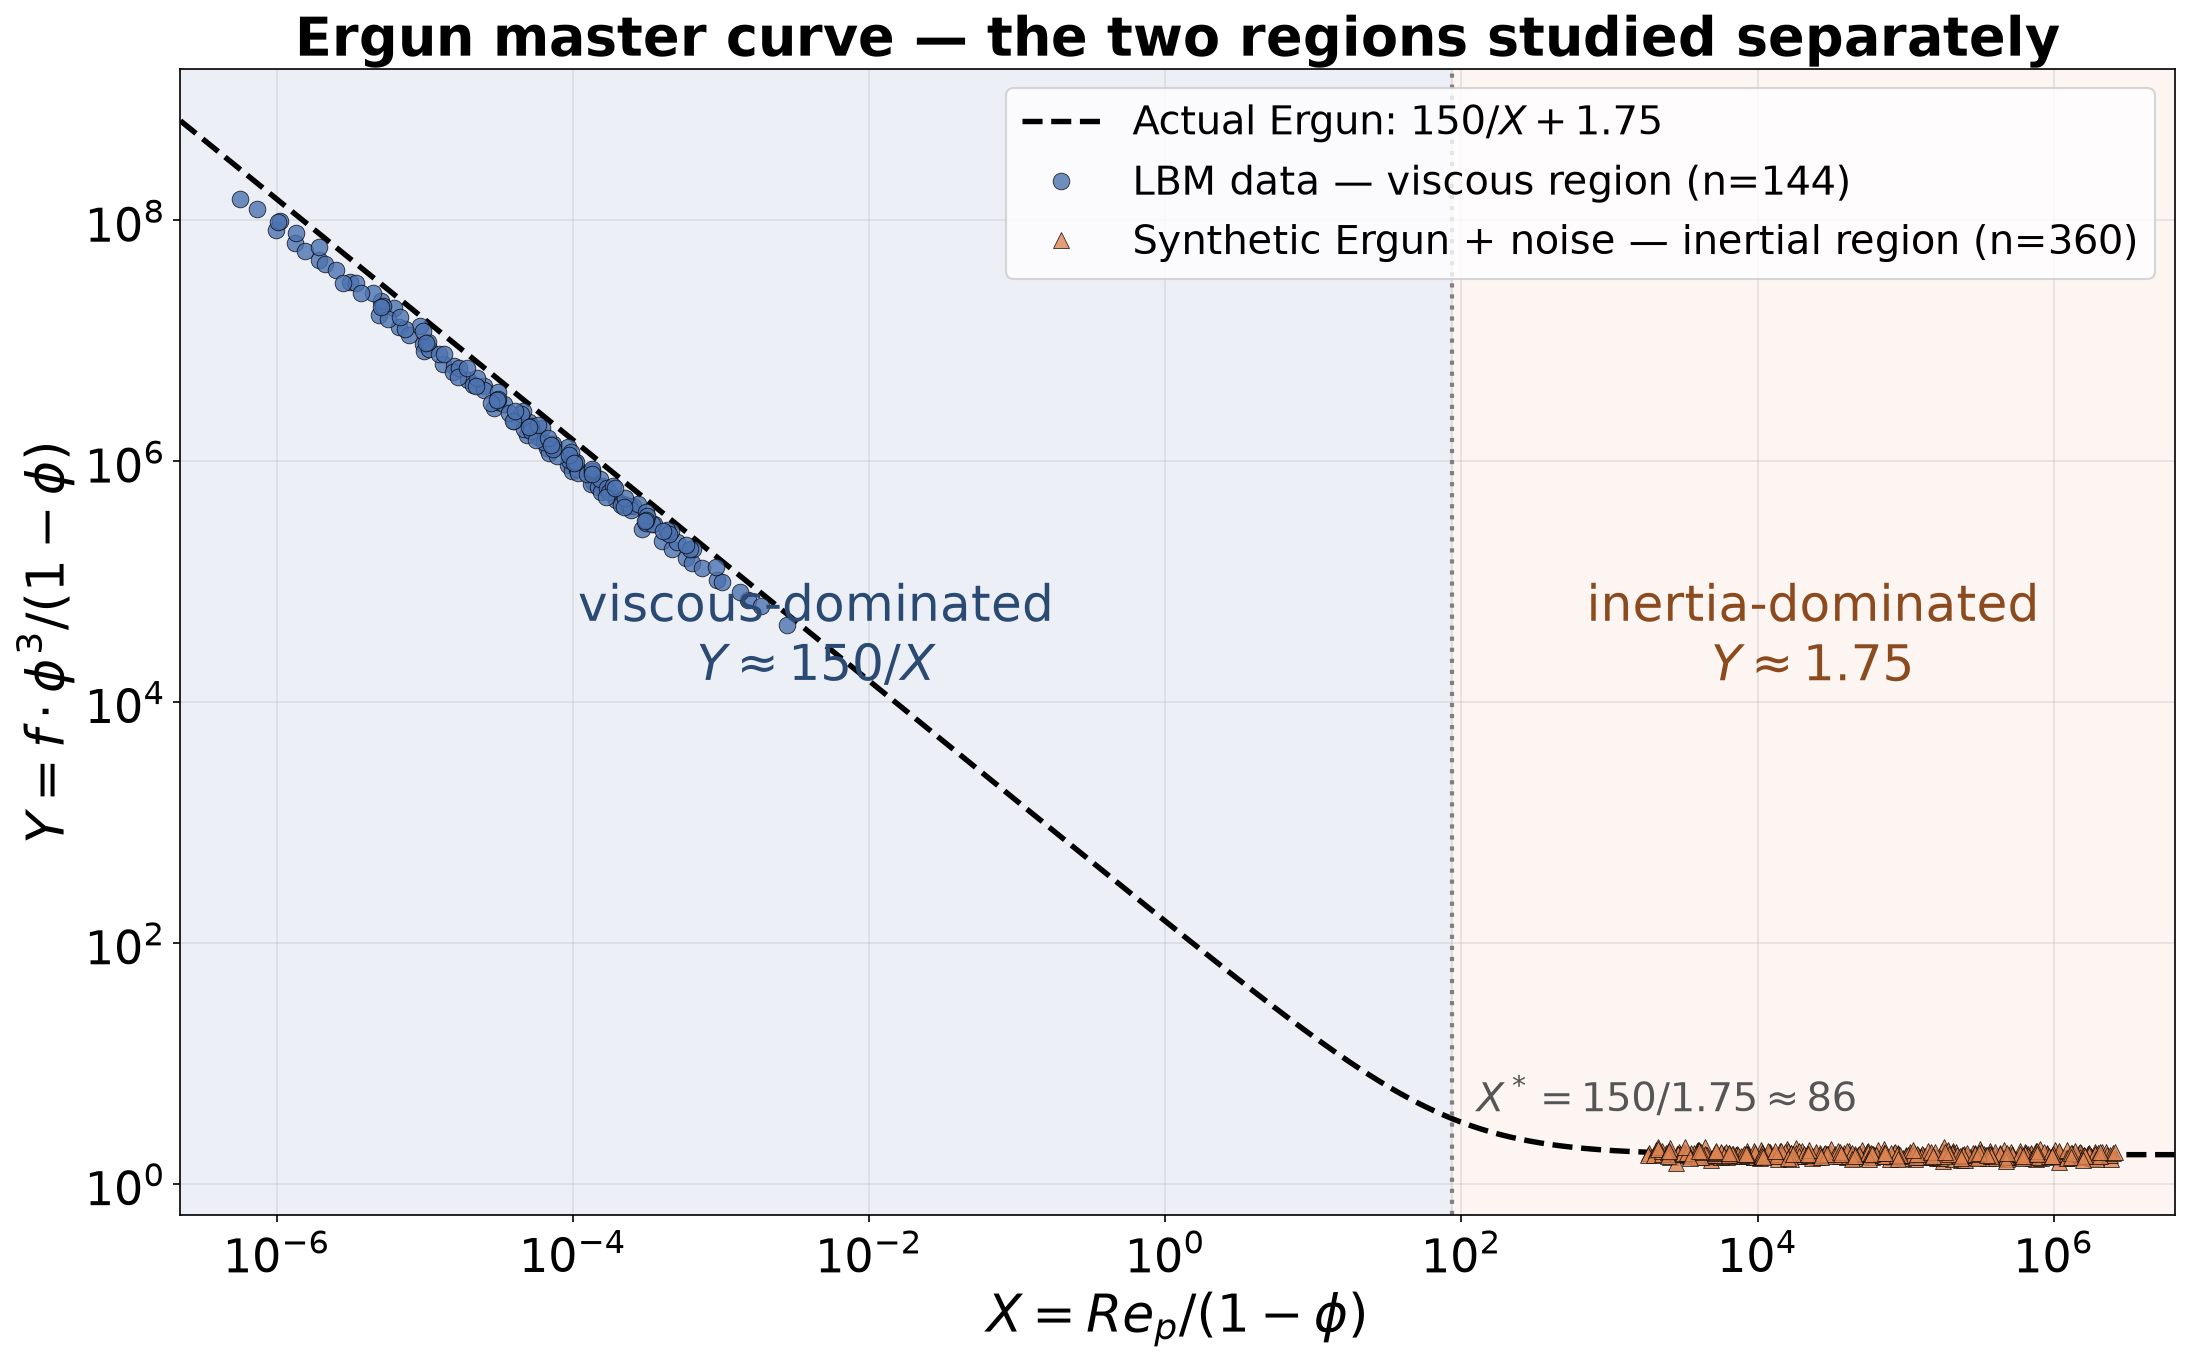
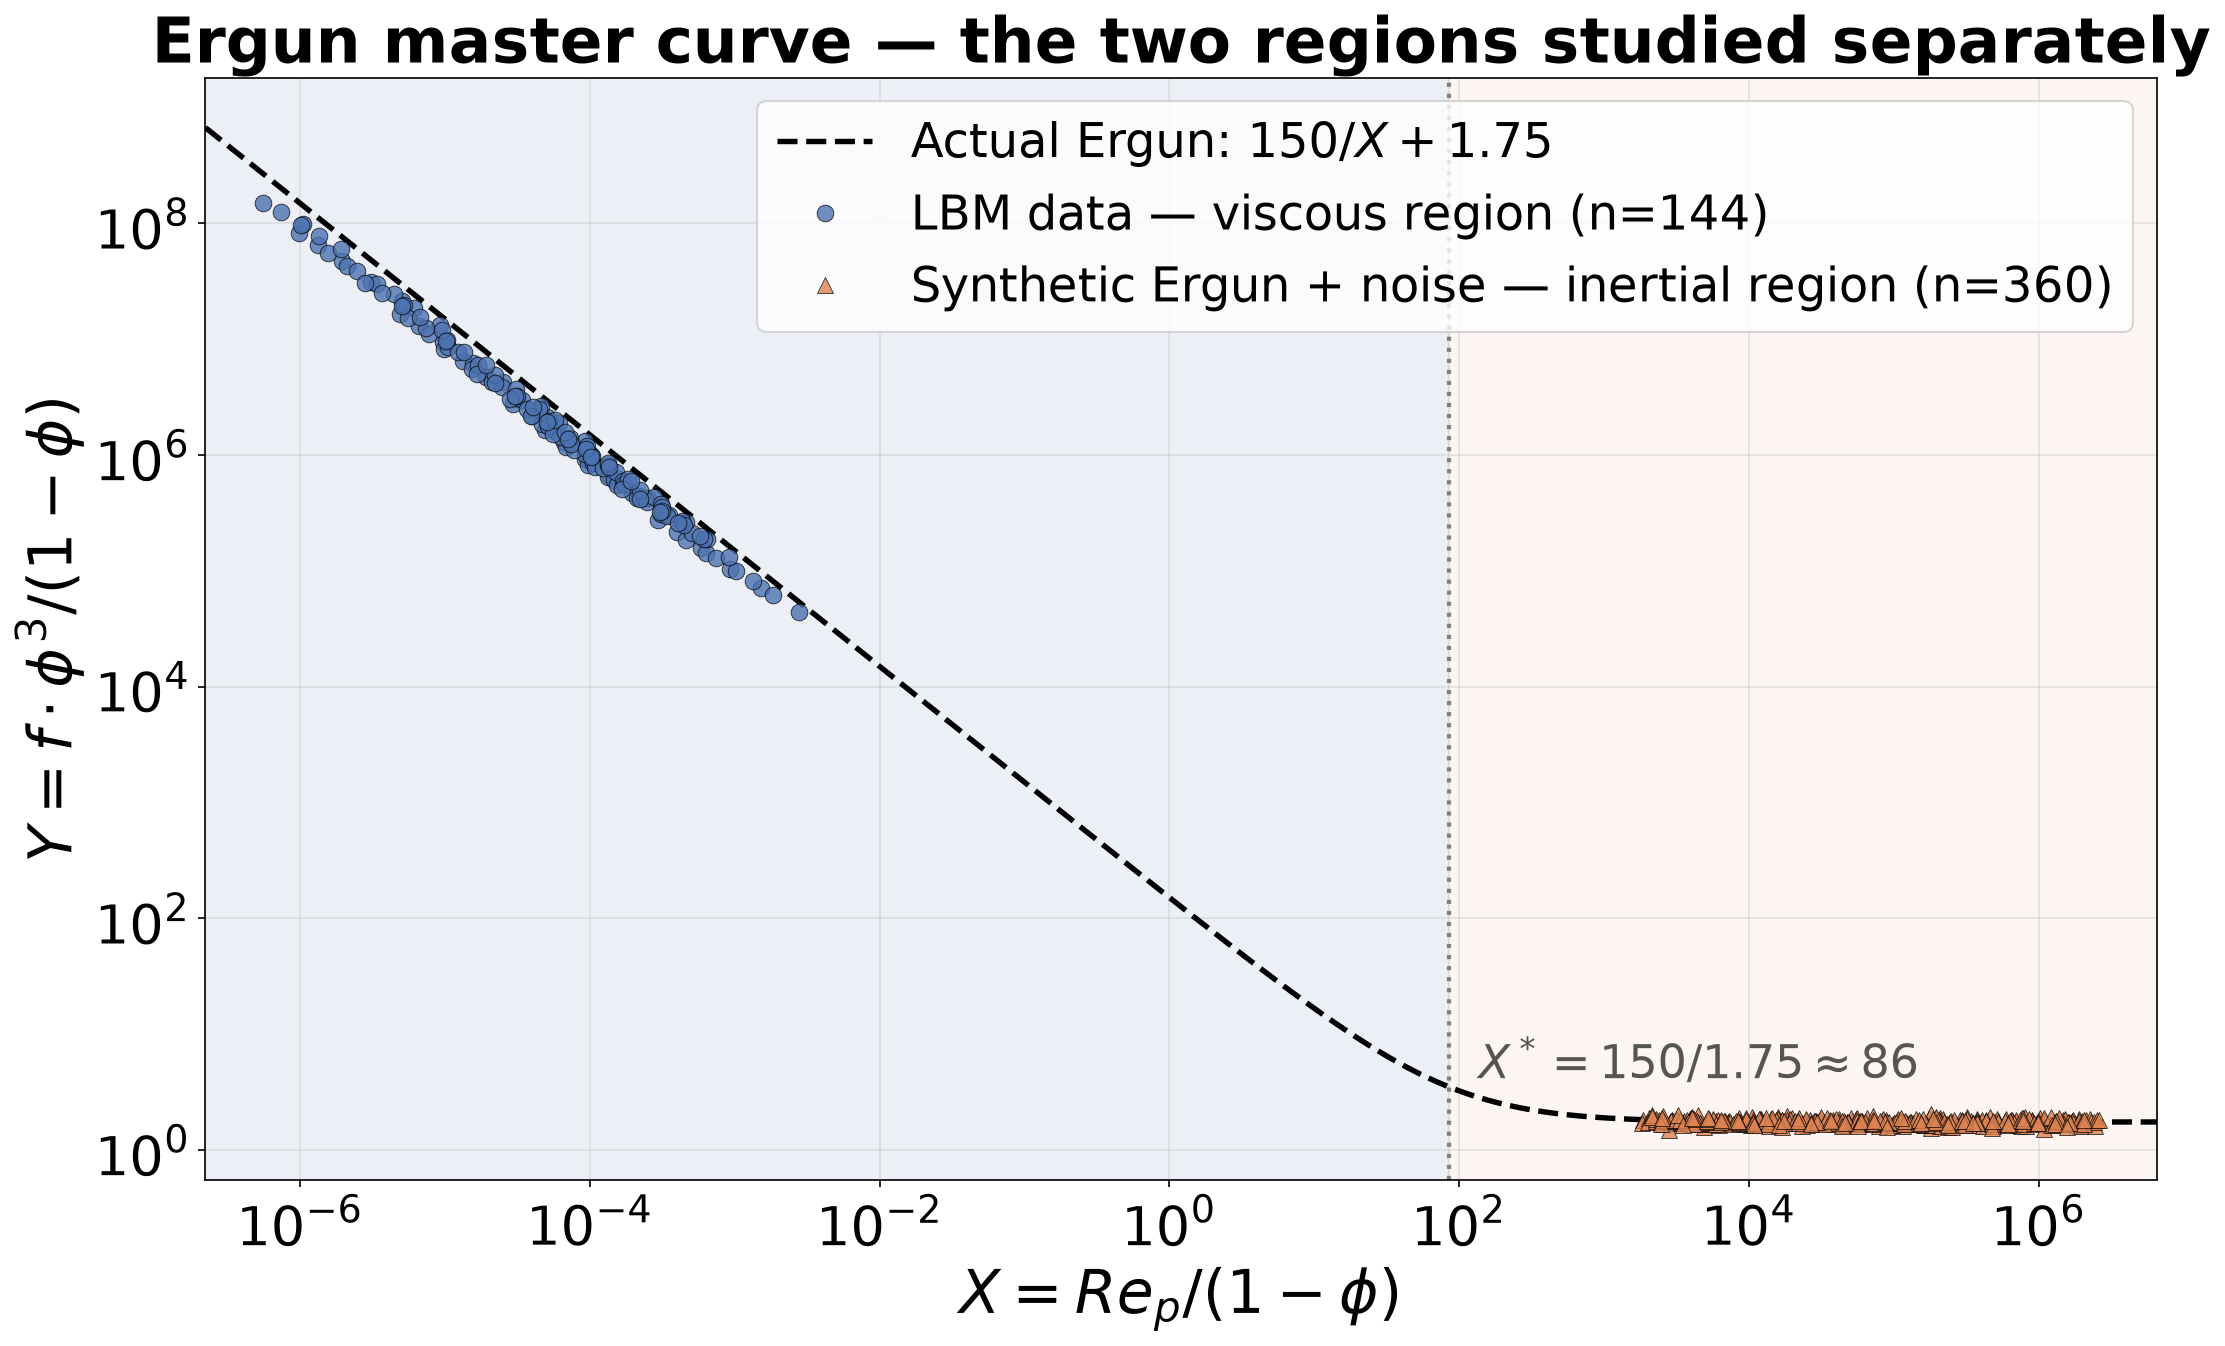
Drop in-zone labels and enlarge fonts on the Ergun master-curve figure
Remove the "viscous-dominated  Y ~ 150/X" and "inertia-dominated Y ~ 1.75"
annotations from inside the shaded regions; the shading + X* dotted line
already carry that meaning. Bump title/axis/tick/legend/X* fonts up by
about four points each.

Claude-Session: https://claude.ai/code/session_018YUJztkFQ5JzrFDPi1aDaP

diff --git a/projects/20260912_Stage1_Prokash/Examples/porous_media_lbm_symmetry/plot_two_regions.py b/projects/20260912_Stage1_Prokash/Examples/porous_media_lbm_symmetry/plot_two_regions.py
@@ -29,12 +29,12 @@ import matplotlib.pyplot as plt
 _here = os.path.dirname(os.path.abspath(__file__))
 
 plt.rcParams.update({
-    "font.size":       20,
-    "axes.titlesize":  26,
-    "axes.labelsize":  25,
-    "xtick.labelsize": 22,
-    "ytick.labelsize": 22,
-    "legend.fontsize": 19,
+    "font.size":       24,
+    "axes.titlesize":  30,
+    "axes.labelsize":  29,
+    "xtick.labelsize": 26,
+    "ytick.labelsize": 26,
+    "legend.fontsize": 23,
 })
 
 X_CROSS = 150.0 / 1.75          # viscous term == inertial term
@@ -75,16 +75,9 @@ def main():
     ax.axvspan(X_CROSS, x_hi, color="#DD8452", alpha=0.08)
     ax.axvline(X_CROSS, color="grey", ls=":", lw=2.0)
 
-    ymid = 10 ** (0.5 * (np.log10(Yi.min()) + np.log10(Yv.max())))
-    ax.text(10 ** (0.5 * (np.log10(x_lo) + np.log10(X_CROSS))), ymid,
-            "viscous-dominated\n$Y \\approx 150/X$",
-            ha="center", color="#2A4A73", fontsize=24)
-    ax.text(10 ** (0.5 * (np.log10(X_CROSS) + np.log10(x_hi))), ymid,
-            "inertia-dominated\n$Y \\approx 1.75$",
-            ha="center", color="#8C4A1F", fontsize=24)
     ax.text(X_CROSS, 10 ** (np.log10(Yi.min()) + 0.35),
             "  $X^* = 150/1.75 \\approx 86$",
-            ha="left", va="bottom", color="#555555", fontsize=19)
+            ha="left", va="bottom", color="#555555", fontsize=22)
 
     ax.set_xlim(x_lo, x_hi)
     ax.set_xlabel(r"$X = Re_p / (1-\phi)$")
